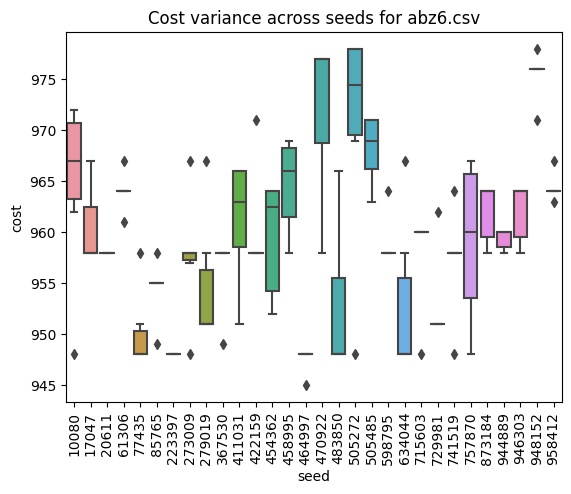
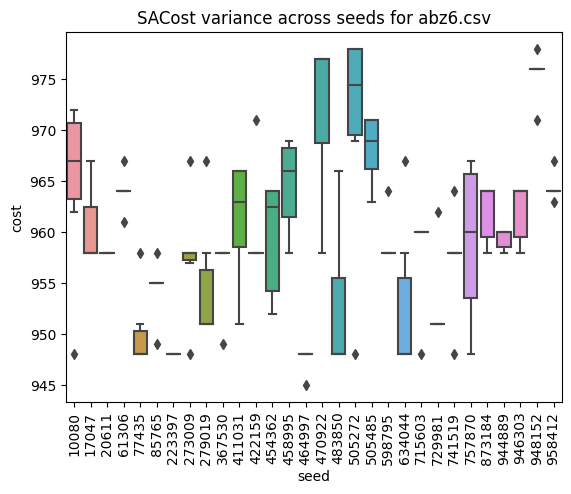
Tabu working and graphing

Changed region(s): [[0.2382, 0.0, 0.8634, 0.0607]]

diff --git a/process_helpers/utilities/plotting.py b/process_helpers/utilities/plotting.py
@@ -1,0 +1,143 @@
+import seaborn as sns
+import os
+import json
+import pandas as pd
+import plotly.express as px
+import matplotlib.pyplot as plt
+
+
+def alg_merge_boxes(alg, filepath, key):
+    print("Merging CSVs for Boxplots: " + alg)
+
+    unify_csvs(filepath, key=key)
+
+    datasets = [f for f in os.listdir(filepath) if f.startswith('results') is False and f.endswith('.csv')]
+    for dataset in datasets:
+        pretty_plots(instance=dataset, target_dir=filepath, key=key, alg=alg)
+
+    pretty_plots(instance="results_sorted.csv", target_dir=filepath, key=key, alg=alg, verbose=True)
+
+
+
+def pretty_plots(instance, target_dir, key, alg, verbose=False):
+    # Create some plots for the given instance
+
+    # Box and whisker plot: Cost variance across seed for each parameter combination
+
+    # Load the file
+    cols = key.split(",")
+    path = f"{target_dir}/{instance}"
+    df = pd.read_csv(path, names=cols)
+
+    # Unique timeouts
+    timeouts = df["timeout"].unique()
+    # drop timeout column
+    df = df.drop(columns=['timeout'])
+
+    ### Create a new column for the parameter combination ###
+
+    if alg == "SA":
+        df['param'] = df['temp'].astype(str) + "-" + df['cooldown'].astype(str)
+
+    elif alg == "TA":
+        df['param'] = df['tabu_length'].astype(str) + "-" + df['max_steps'].astype(str) + "-" + df[
+            'longest_hold'].astype(
+            str)
+
+    # Boxplot for overall performance with all seeds combined
+    box_plotter(df, target_dir, instance, alg + "Cost variance across seeds for " + instance, X="seed", Y="cost")
+    box_plotter(df, target_dir, instance, alg + "Cost variance across parameter combination for " + instance, X="param",
+                Y="cost")
+
+    # Box plot with a seperate box for each dataset (instance)
+    if verbose:
+        box_plotter(df, target_dir, "Overall variance across datasets", alg + "Overall variance across datasets" + instance, X="instance",
+                    Y="cost")
+
+
+
+def alg_gantts(candidates, filepath):
+    files = [f for f in os.listdir(candidates) if f.endswith('.json')]
+    for file in files:
+        render_gantt_json(file=candidates + file, outdir=filepath)
+
+
+def box_plotter(df, target_dir, instance, name, X="param", Y="cost",):
+    #@TODO Make sure scale is the same across all plots (y axis) so that they can be compared
+    result_dir = os.getcwd() + "/jobs/results/" + target_dir.split("/")[-3]
+    sns.boxplot(x=X, y=Y, data=df)
+    # Rotate x labels
+    plt.xticks(rotation=90)
+    plt.title(name)
+    plt.savefig(f"{result_dir}/{instance}_boxplot_{X}.png", bbox_inches='tight')
+    plt.clf()
+
+
+def unify_csvs(filepath, key):
+    print("Unifying csvs")
+    print("Trying for dir " + filepath.split("/")[-3])
+    # Delete the files we create if the script has been run before
+    # If it is prefixed with results keep it, if it is not, delete it
+    for file in os.listdir(filepath):
+        if file.startswith("results-"):
+            continue
+        elif file.endswith(".csv"):
+            os.remove(f"{filepath}/{file}")
+
+    # Get all files in the directory ending with .csv
+    files = [f for f in os.listdir(filepath) if f.endswith('.csv')]
+    # instance, cost, seed, temp, cooldown, timeout
+    # Iterate over files and add to a new file
+    with open(f"{filepath}/results.csv", "w") as results_file:
+        for file in files:
+            with open(f"{filepath}/{file}", "r") as file:
+                for line in file:
+                    results_file.write(line)
+    # Sort rows by instance
+    os.system(f"sort -t, -k1,1 {filepath}/results.csv > {filepath}/results_sorted.csv")
+
+    # Delete old file
+    os.remove(f"{filepath}/results.csv")
+
+    # Create a separate file for each instance, overwriting if it exists
+    os.system(f"awk -F, '{{print > \"{filepath}/\"$1\".csv\"}}' {filepath}/results_sorted.csv")
+    result_dir = os.getcwd() + "/jobs/results/" + filepath.split("/")[-3]
+
+    # Copy the sorted file to the results directory
+    os.system(f"cp {filepath}/results_sorted.csv {result_dir}/results_sorted.csv")
+
+
+def render_gantt_json(file, outdir):
+    with open(file, "r") as f:
+        gantt_data = json.load(f)
+
+    list_of_dicts = []
+    for job in gantt_data["packages"]:
+        d = {"Machine": job["label"],
+             "Start": job["start"],
+             "End": job["end"],
+             "Color": job["color"],
+             "Job": job["legend"]}
+
+        list_of_dicts.append(d)
+
+    df = pd.DataFrame(list_of_dicts)
+    df['Delta'] = df['End'] - df['Start']
+
+    fig = px.timeline(df, x_start="Start", x_end="End", y="Machine", color="Color", labels="Job",
+                      title=gantt_data["title"])
+    fig.update_yaxes(autorange="reversed")
+    fig.layout.xaxis.type = 'linear'
+
+    for d in fig.data:
+        filt = df['Color'] == d.name
+        d.name = str(df[filt]['Job'].values[0])
+        d.x = df[filt]['Delta'].tolist()
+
+    fig.update_xaxes(type='linear')
+    fig.update_yaxes(autorange="reversed")  # otherwise tasks are listed from the bottom up
+    # Read the name of the file
+    name = file.split("/")[-1].split(".")[0]
+    slurm = name.split("_")[0]
+
+    fig.write_image(outdir + "/img/gantt-" + slurm + ".png", format="png")

diff --git a/process_helpers/process_results.py b/process_helpers/process_results.py
@@ -1,0 +1,24 @@
+import os
+
+from process_helpers.utilities.plotting import alg_gantts, alg_merge_boxes
+
+if __name__ == '__main__':
+
+    outdir = "/home/kali/PycharmProjects/Capstone/jobs/output/"
+    sim_dir = outdir + "sim_anneal/"
+    tabu_dir = outdir + "tabu_search/"
+    genetic_dir = outdir + "genetic/"
+
+    # Box Plots and CSV magic
+    key = "instance,cost,seed,temp,cooldown,timeout"
+    alg_merge_boxes("SA", sim_dir + "results/", key)
+
+    key = "instance,cost,seed,tabu_length,max_steps,longest_hold,timeout"
+    alg_merge_boxes("TA", tabu_dir + "results/", key)
+
+    # # Gantt Charts
+    # candidates = tabu_dir + "json/"
+    # alg_gantts(candidates, tabu_dir)
+    #
+    # candidates = genetic_dir + "json/"
+    # alg_gantts(candidates, genetic_dir)

diff --git a/process_helpers/param_permutation_generator.py b/process_helpers/param_permutation_generator.py
@@ -86,7 +86,7 @@ def generate_genetic_algorithm_params(datasets, timeout):
     mut_rate = [0.1, 0.2, 0.3, 0.4, 0.5]
     cross_rate = [0.1, 0.2, 0.3, 0.4, 0.5]
     # Generate the param file
-    with open("genetic_param.txt", "w") as param_file:
+    with open("../genetic_param.txt", "w") as param_file:
         # Write the header
         param_file.write("seed,pop_size,ngen,mut_rate,cross_rate")
         # Write the parameters
